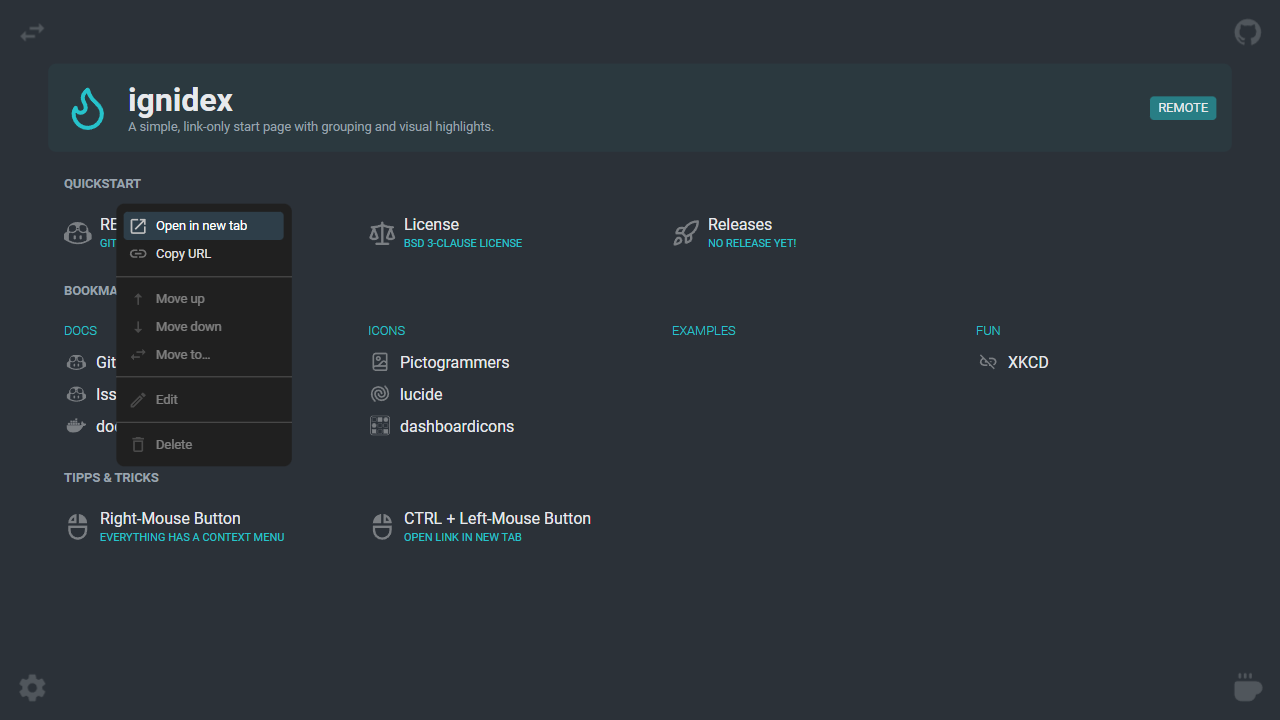
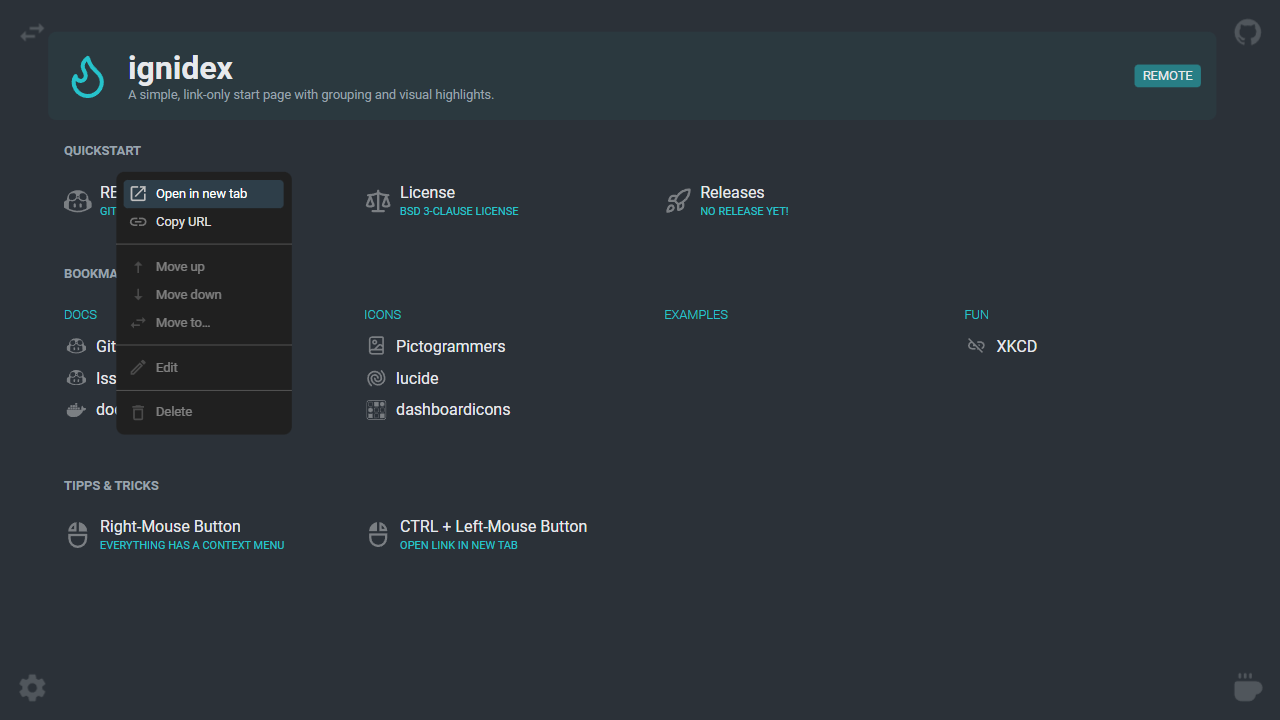
update CHANGELOG.md

diff --git a/CHANGELOG.md b/CHANGELOG.md
@@ -1,6 +1,6 @@
 # Changelog
 
-## [Unreleased] - v0.6.0
+## [0.6.0]
 
 ### Added
 - Drag and drop to reorder bookmark cards
@@ -8,6 +8,12 @@
 - Switch panel keyboard shortcuts (1-9)
 - Settings URL parameter support
 - Corner action for "Buy me a coffee"
+- Icon preview click opens image asset viewer
+
+### Changed
+- Improved layout spacing
+- Updated panel header style
+- Disabled user text selection for bookmarks
 
 ## [0.5.1]
 
